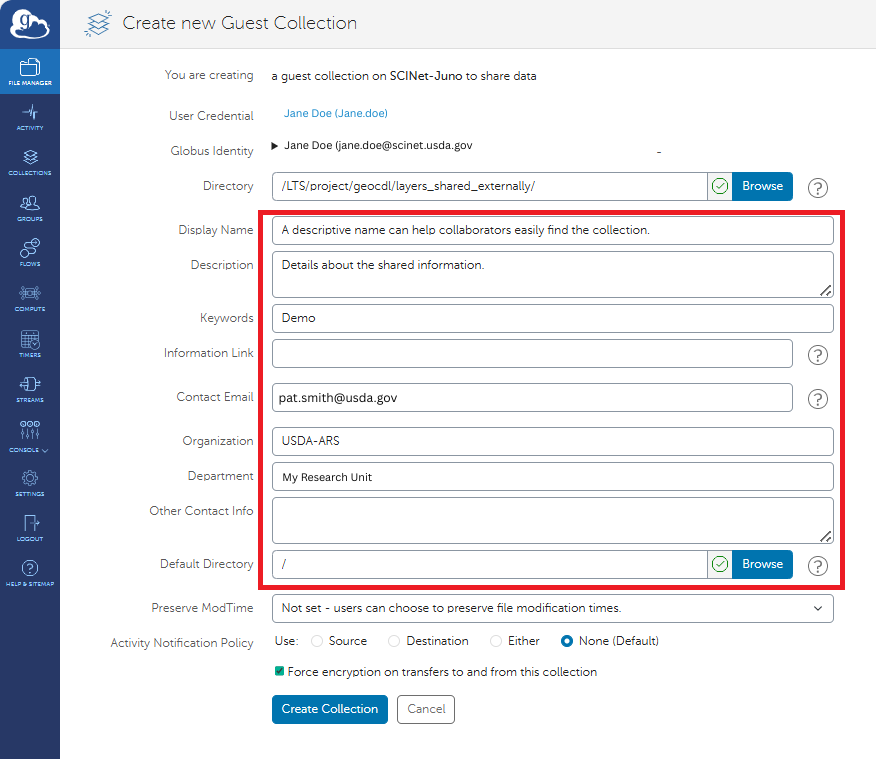
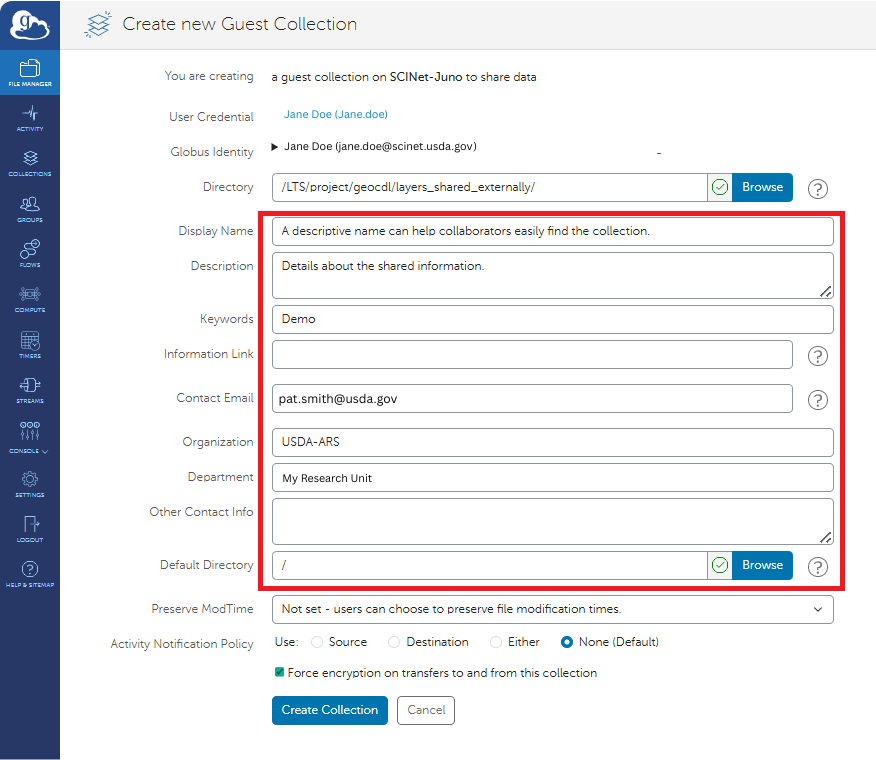
Image and formatting fixes

diff --git a/sn_collections/_guides/data/transfer/globus.md b/sn_collections/_guides/data/transfer/globus.md
@@ -113,7 +113,11 @@ By default on Windows, GCP prompts to be installed in `C:\Program Files` which r
      * If you already have a Globus account with another authentication identity (e.g., via ORCID or a university), click "Link to an existing account" to join your SCINet-ARS/USDA Globus identity to your existing account. (You can also link identities later using the steps on the [Globus linking account instructions](https://docs.globus.org/guides/tutorials/manage-identities/link-to-existing/).)  
      * Otherwise, click "Continue" to register your SCINet account with a new Globus account. When registering, type "USDA-ARS" as your organization and select the "non-profit research or educational purposes" option. Agree to the terms and click "Continue".  
 1. The next page will ask you to agree to set up GCP and ask for a name for this consent for future reference. You can keep the default value which should be the name of your local computer. Click "Allow".  
-1. Now a pop-up window for "Collection Details" will appear. For "Collection Name", provide a unique name that will be recognizable to you as your local computer. For example:  your initials and "_workstation" (e.g., ABC_workstation). Providing a description is optional. Do not select the "High Assurance" checkbox (read about sensitive data on SCINet infrastructure [here]({{ site.baseurl }}/support/faq#can-i-store-sensitive-data-on-scinet-infrastructure)). Click "Save".  
+1. Now a pop-up window for "Collection Details" will appear. 
+   * For "Collection Name", provide a unique name that will be recognizable to you as your local computer. For example:  your initials and "_workstation" (e.g., ABC_workstation). 
+   * Providing a description is optional. 
+   * Do not select the "High Assurance" checkbox (read about sensitive data on SCINet infrastructure [here]({{ site.baseurl }}/support/faq#can-i-store-sensitive-data-on-scinet-infrastructure)). 
+   * Click "Save".  
 1. You should get a "Setup Successful!" pop-up with the name of your collection.  
    * If you would like to modify your collection name, you can click "show collection details" and, on the right of the collection details page, click "edit attributes" to edit the collection's name.  
    * When you are happy with the collection name, click "Exit Setup". 
@@ -122,7 +126,9 @@ By default on Windows, GCP prompts to be installed in `C:\Program Files` which r
 You can check the status of your GCP connection by clicking the GCP icon in your task bar.  
   ![Globus Connect Personal icon in windows taskbar](../assets/taskbar_gcp_icon.png) 
 
-You can now transfer data from your local computer using [Globus.org](https://www.globus.org/) while Globus Connect Personal is running. You should find the GCP collection made above in your list of collections, and you will be able to connect to it while the local GCP connection is running on your local computer. After selecting your local computer collection, you should see in the Globus File Manager the files you have on your local computer. See the [copying data](#copying-data) section for more information about copying data using Globus. 
+You can now transfer data from your local computer using [Globus.org](https://www.globus.org/) while Globus Connect Personal is running. You should find the GCP collection made above in your list of collections, and you will be able to connect to it while the local GCP connection is running on your local computer. After selecting your local computer collection, you should see in the Globus File Manager the files you have on your local computer. 
+
+See the [copying data](#copying-data) section for more information about copying data using Globus. 
 
 
 ## Globus guest collections
